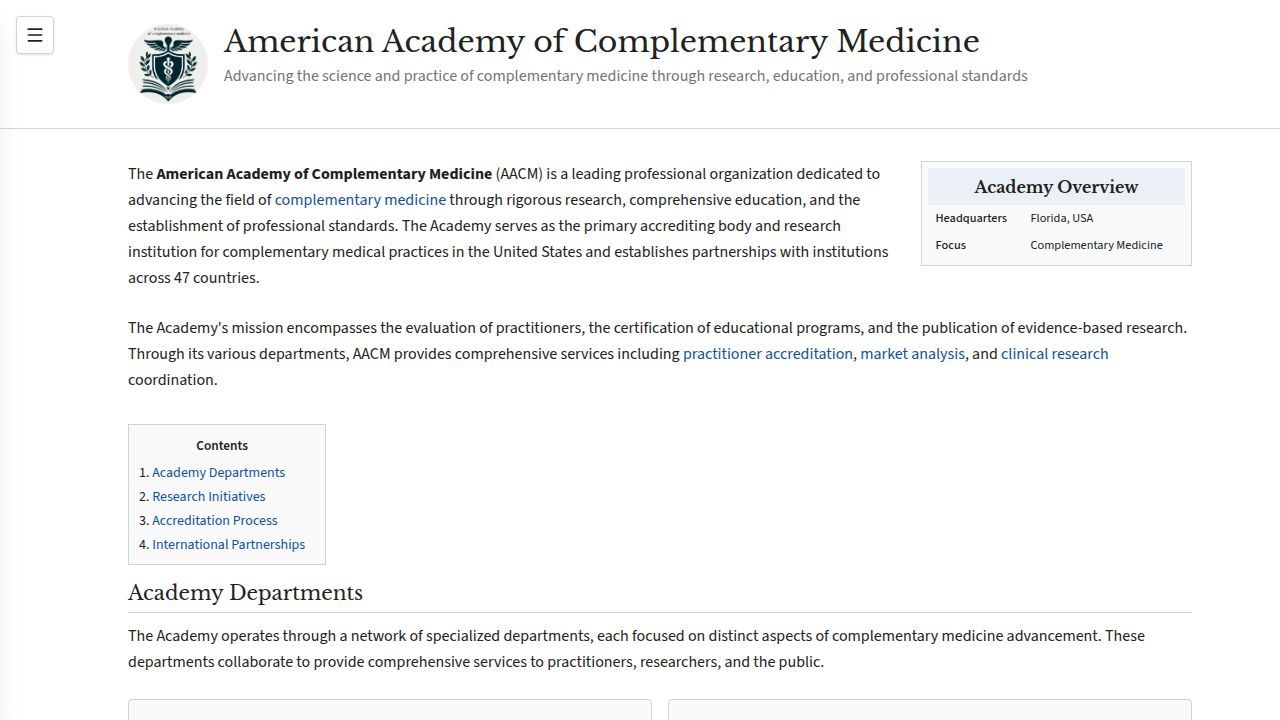
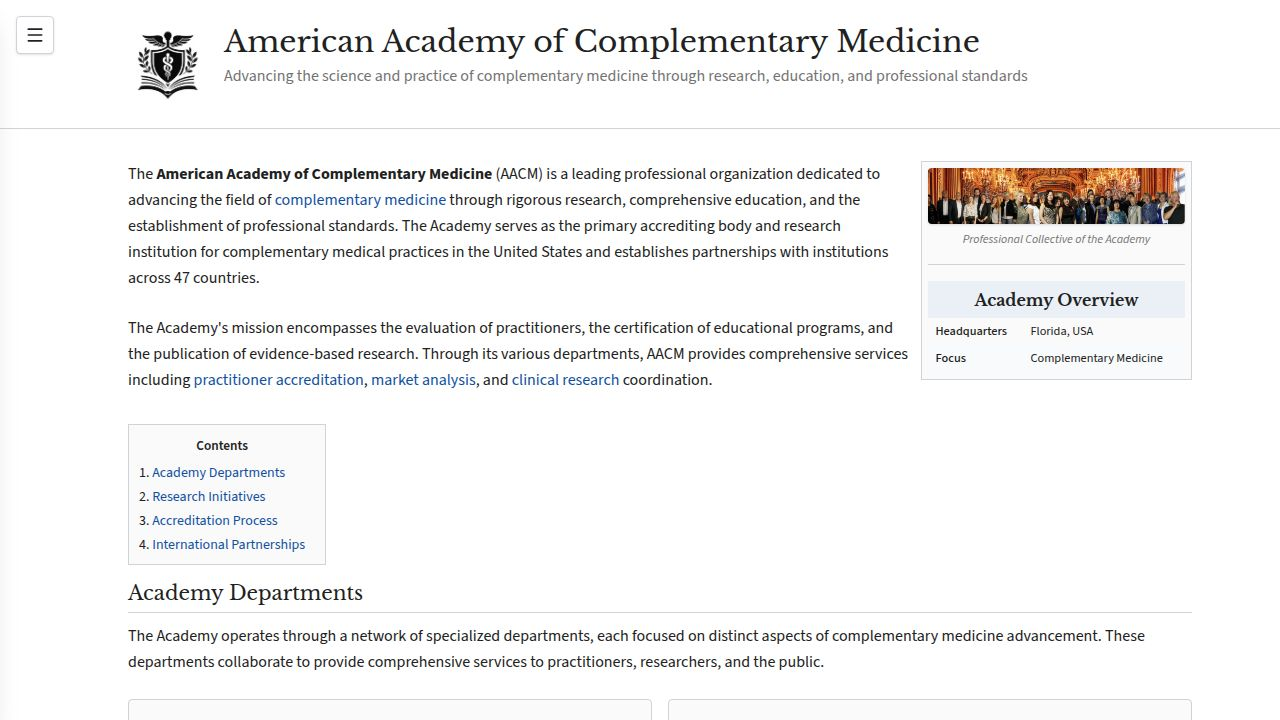
Add a professional team photo to the homepage and update various assets
Updates the logo, contact email, and adds a new photo to the homepage infobox.

Replit-Commit-Author: Agent
Replit-Commit-Session-Id: 5f47e28c-841d-4c62-adbd-9ae9f69180f3
Replit-Commit-Checkpoint-Type: full_checkpoint
Replit-Commit-Event-Id: c996bdcf-c53d-4279-b285-7db1364075fd
Replit-Commit-Screenshot-Url: https://storage.googleapis.com/screenshot-production-us-central1/1bc67912-4ef7-4731-8c04-3e62d03a2c57/5f47e28c-841d-4c62-adbd-9ae9f69180f3/7iCWHiK
Replit-Helium-Checkpoint-Created: true

Changed region(s): [[0.0938, 0.3972, 0.9375, 0.55], [0.7188, 0.2139, 0.9375, 0.3972], [0.0938, 0.0306, 0.1562, 0.1528]]

diff --git a/client/src/pages/home.tsx b/client/src/pages/home.tsx
@@ -12,7 +12,8 @@ import {
   TrendingUp,
   CheckCircle,
 } from "lucide-react";
-import logoImage from "@assets/logo.png";
+import logoImage from "@assets/1111111111 (1).png";
+import groupPhoto from "@assets/IMG_1514_(1)_1769125494892.jpg";
 
 import e3e30799f77d11f093ff9e3e85b3e775_4 from "@assets/e3e30799f77d11f093ff9e3e85b3e775_4.png";
 
@@ -121,6 +122,16 @@ export default function Home() {
       </header>
       <main className="max-w-6xl mx-auto px-6 py-8 pl-16">
         <div className="wiki-infobox hidden md:block">
+          <div className="mb-4 border-b border-wiki-border pb-4">
+            <img 
+              src={groupPhoto} 
+              alt="Professional Collective of the Academy" 
+              className="w-full h-auto rounded shadow-sm"
+            />
+            <p className="text-xs text-center text-muted-foreground mt-2 italic">
+              Professional Collective of the Academy
+            </p>
+          </div>
           <table className="w-full">
             <thead>
               <tr>

diff --git a/client/src/pages/contacts.tsx b/client/src/pages/contacts.tsx
@@ -44,9 +44,7 @@ export default function Contacts() {
             <p className="text-sm text-muted-foreground mb-4">
               For general questions about the Academy, membership, or accreditation:
             </p>
-            <a href="mailto:support@aacmedinc.org" className="text-primary hover:underline font-medium">support@aacmedinc.org</a>
-            <br />
-            <a href="mailto:americanacademyinc@gmail.com" className="text-primary hover:underline font-medium">americanacademyinc@gmail.com</a>
+            <a href="mailto:support@aacmedinc.org" className="text-primary hover:underline font-medium">support@aacmedinc.org. americanacademyinc@gmail.com</a>
           </div>
         </div>
 

diff --git a/client/src/components/Sidebar.tsx b/client/src/components/Sidebar.tsx
@@ -2,7 +2,7 @@ import { useState } from "react";
 import { Link, useLocation } from "wouter";
 import { Menu, X, Building2, BarChart3, Search, Award, GraduationCap, FlaskConical, Stethoscope, FileText, Users, ChevronDown, ChevronRight } from "lucide-react";
 import { ScrollArea } from "@/components/ui/scroll-area";
-import logoImage from "@assets/logo.png";
+import logoImage from "@assets/1111111111 (1).png";
 import _1111111111__1_ from "@assets/1111111111 (1).png";
 
 interface NavItem {
